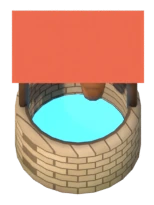
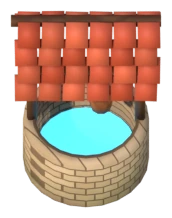
Soft results sunburst, higher-contrast Gleam Grab landing rings, tiled well roof
Claude-Session: https://claude.ai/code/session_01SaCmMRmT6ous3ZUywnLqEj

diff --git a/src/game/minigames/games/GleamGrab.ts b/src/game/minigames/games/GleamGrab.ts
@@ -195,8 +195,9 @@ export class GleamGrabScene extends BaseMinigame {
     if (kind === 'capsule') shadow.setTint(0x6a1830);
     // Landing telegraph: a colour-coded ring that closes in on the landing spot as the drop falls
     // (danger red for fake capsules).
-    const ringColor = kind === 'capsule' ? 0xff4a4a : kind === 'gold' ? 0xffe066 : 0xffc94a;
-    const ring = this.add.image(q.x, q.y, 'fx-ring').setTint(ringColor).setAlpha(0.2).setScale(1.5 * q.s, 0.6 * q.s).setDepth(q.y - 0.5).setBlendMode(Phaser.BlendModes.ADD);
+    // Colours chosen to contrast with the warm floor: cyan for chips, amber for gold, red for danger.
+    const ringColor = kind === 'capsule' ? 0xff2a2a : kind === 'gold' ? 0xffa600 : 0x14c8f0;
+    const ring = this.add.image(q.x, q.y, 'fx-ring').setTint(ringColor).setAlpha(0.35).setScale(1.5 * q.s, 0.6 * q.s).setDepth(q.y - 0.5);
     this.drops.push({ kind, x: px, y: py, fallT: FALL_MS, fallTotal: FALL_MS, state: 'falling', life: 4500, sprite, shadow, ring, glow, sx: q.x, sy: q.y, ss: q.s });
   }
 
@@ -211,7 +212,7 @@ export class GleamGrabScene extends BaseMinigame {
         d.shadow.setScale((0.15 + t * 0.62) * d.ss, (0.05 + t * 0.2) * d.ss).setAlpha(0.3 + t * 0.55);
         const rs = 1.5 - t * 0.95;
         const wob = d.kind === 'capsule' ? Math.sin(t * 40) * 0.06 : 0;
-        d.ring.setScale((rs + wob) * d.ss, (rs - wob) * 0.4 * d.ss).setAlpha(0.25 + t * 0.7);
+        d.ring.setScale((rs + wob) * d.ss, (rs - wob) * 0.4 * d.ss).setAlpha(0.4 + t * 0.6);
         if (d.fallT <= 0) {
           d.ring.destroy();
           d.sprite.y = d.sy - 20 * d.ss;

diff --git a/src/game/effects/animations.ts b/src/game/effects/animations.ts
@@ -88,6 +88,31 @@ export function generateFxTextures(scene: Phaser.Scene): void {
       tex.refresh();
     }
   }
+  if (!scene.textures.exists('fx-rays')) {
+    // Soft sunburst: blurred wedges that fade out from the centre (results spotlight).
+    const S = 512;
+    const tex = scene.textures.createCanvas('fx-rays', S, S);
+    if (tex) {
+      const ctx = tex.getContext();
+      const c = S / 2;
+      ctx.filter = 'blur(7px)';
+      for (let i = 0; i < 16; i++) {
+        const a0 = (i / 16) * Math.PI * 2;
+        const grd = ctx.createRadialGradient(c, c, 16, c, c, c - 10);
+        grd.addColorStop(0, 'rgba(255,255,255,0.95)');
+        grd.addColorStop(0.45, 'rgba(255,255,255,0.4)');
+        grd.addColorStop(1, 'rgba(255,255,255,0)');
+        ctx.fillStyle = grd;
+        ctx.beginPath();
+        ctx.moveTo(c, c);
+        ctx.arc(c, c, c - 12, a0, a0 + (i % 2 ? 0.1 : 0.16));
+        ctx.closePath();
+        ctx.fill();
+      }
+      ctx.filter = 'none';
+      tex.refresh();
+    }
+  }
   if (!scene.textures.exists('fx-contact')) {
     // Tighter contact shadow: a dense core with a short falloff, so it reads around the feet.
     const tex = scene.textures.createCanvas('fx-contact', 128, 128);

diff --git a/src/game/scenes/ResultsScene.ts b/src/game/scenes/ResultsScene.ts
@@ -174,14 +174,8 @@ export class ResultsScene extends Phaser.Scene {
           beam.fillEllipse(x, baseY - h + 8, 360, 80);
           this.tweens.add({ targets: beam, alpha: 1, duration: 500 });
           // Sunburst behind the winner and a ribbon above.
-          const rays = this.add.graphics({ x, y: baseY - h - 120 }).setDepth(-5).setAlpha(0);
-          for (let i = 0; i < 18; i++) {
-            const a0 = (i / 18) * Math.PI * 2;
-            rays.fillStyle(i % 2 ? 0xffe08a : 0xffffff, 0.22);
-            rays.slice(0, 0, 520, a0, a0 + 0.17, false);
-            rays.fillPath();
-          }
-          this.tweens.add({ targets: rays, alpha: 1, duration: 400 });
+          const rays = this.add.image(x, baseY - h - 120, 'fx-rays').setDisplaySize(1180, 1180).setTint(0xffe7a6).setBlendMode(Phaser.BlendModes.ADD).setDepth(-5).setAlpha(0);
+          this.tweens.add({ targets: rays, alpha: 0.6, duration: 400 });
           this.tweens.add({ targets: rays, angle: 360, duration: 24000, repeat: -1 });
           const ribbon = addTitle(this, x, baseY - h - 330, 'WINNER!', 48, CSS.goldLight).setScale(0.3);
           this.tweens.add({ targets: ribbon, scale: 1, duration: 360, ease: 'Back.Out' });

diff --git a/scripts/art/board.py b/scripts/art/board.py
@@ -41,7 +41,7 @@ def args():
     p.add_argument('--scale', type=float, default=None)
     p.add_argument('--samples', type=int, default=None)
     p.add_argument('--out', default=os.path.join(lib.ROOT, 'art-out', 'board'))
-    p.add_argument('--only', default='')
+    p.add_argument('--only', default='', help='with --props-only: comma-separated landmark ids to re-render')
     p.add_argument('--crop', default='', help='x0,y0,x1,y1 board px region to render at --scale')
     p.add_argument('--export', action='store_true', help='slice into WebP tiles under public/assets/rendered')
     p.add_argument('--props-only', action='store_true', help='only re-render the landmark sprites')
@@ -316,7 +316,15 @@ def render_props(built, terrain_objs, frame):
     os.makedirs(dest, exist_ok=True)
     entries = []
     dg = bpy.context.evaluated_depsgraph_get()
+    # --only id,id: re-render just those sprites and keep every other manifest entry as it was
+    only = {t for t in A.only.split(',') if t}
+    man_path0 = os.path.join(dest, 'manifest.json')
+    old_entries = {e['id']: e for e in json.load(open(man_path0)).get('props', [])} if only and os.path.exists(man_path0) else {}
     for pid, (lm, obs) in built.items():
+        if only and pid not in only:
+            if pid in old_entries:
+                entries.append(old_entries[pid])
+            continue
         for o in all_prop_objs:
             o.hide_render = o not in obs
         for o in obs:
